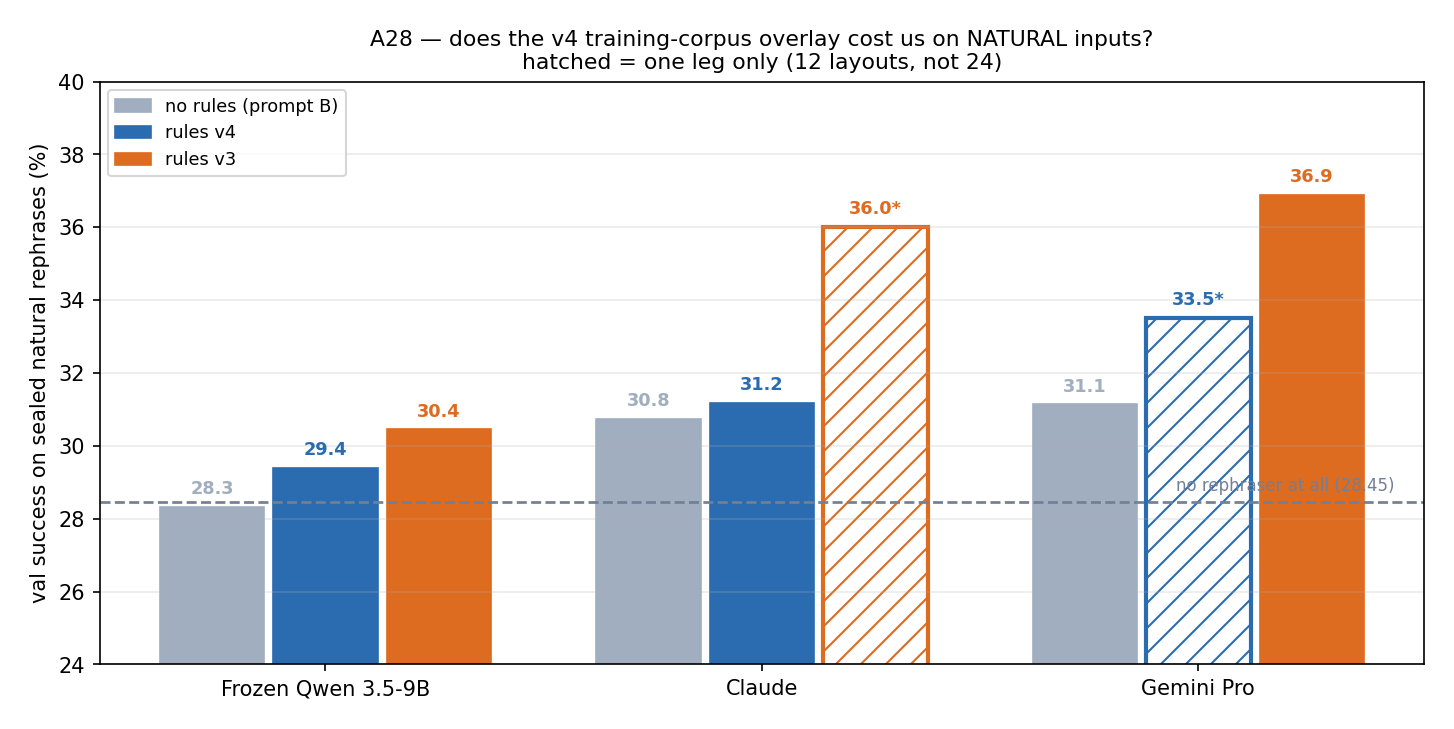
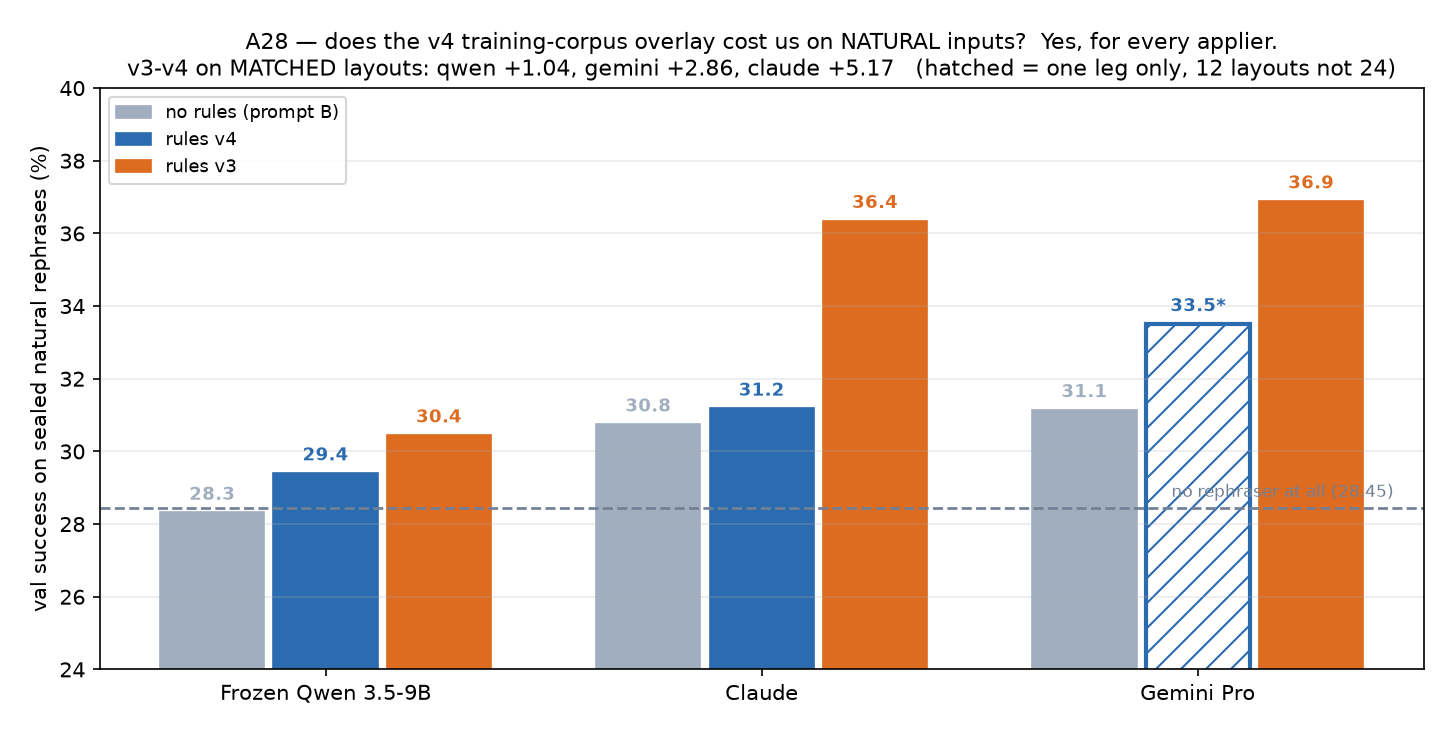
A28: Claude v3 cell completes at 36.35; its v3-v4 edge holds on both halves (+5.59, +4.74)

diff --git a/scripts/make_a28_chart.py b/scripts/make_a28_chart.py
@@ -75,8 +75,9 @@ for h, l in zip(handles, labels):
         seen.add(l); hh.append(h); ll.append(l)
 ax.legend(hh, ll, fontsize=8.5, loc="upper left")
 ax.grid(axis="y", alpha=0.25)
-ax.set_title("A28 — does the v4 training-corpus overlay cost us on NATURAL inputs?\n"
-             "hatched = one leg only (12 layouts, not 24)", fontsize=10.5)
+ax.set_title("A28 — does the v4 training-corpus overlay cost us on NATURAL inputs?  Yes, for every applier.\n"
+             "v3-v4 on MATCHED layouts: qwen +1.04, gemini +2.86, claude +5.17   "
+             "(hatched = one leg only, 12 layouts not 24)", fontsize=10.5)
 fig.tight_layout()
 fig.savefig("results/charts/a28_rulesv3_vs_v4.png", dpi=150, bbox_inches="tight",
             pad_inches=0.2)
